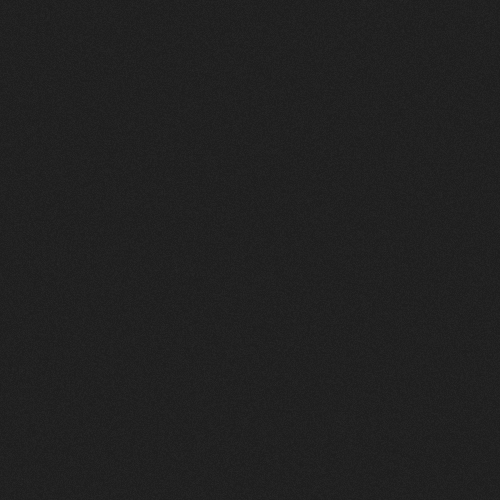
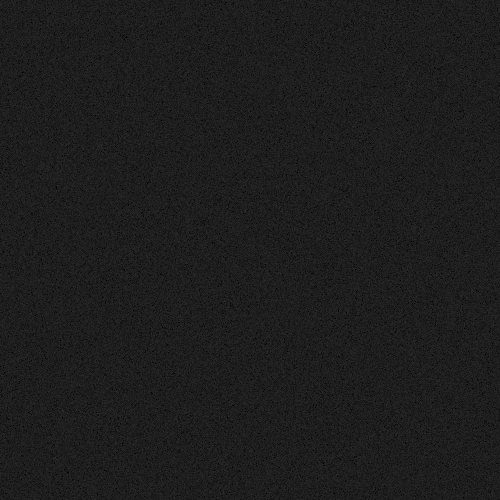
static header bg image

diff --git a/contents/style.css b/contents/style.css
@@ -19,13 +19,14 @@ body {
 
 header {
     background-color: #1e1e1e;
-    background-image: url('img/noise-30.gif');
+    background: 
+        linear-gradient(180deg, #1e1e1e00 80px, var(--primary-color-transparent) 180px),
+        url('img/noise.png');
     background-attachment: fixed;
-    background-size: calc(25vw);
+    background-size: 138px;
     padding: 20px 0 40px 0;
     text-align: center;
     border-bottom: 2px solid var(--primary-color);
-    box-shadow: 0px -20px 50px var(--primary-color-transparent) inset;
     min-height: 120px;
     transition: border-bottom-color 0.7s ease, box-shadow 0.7s ease;
 }
